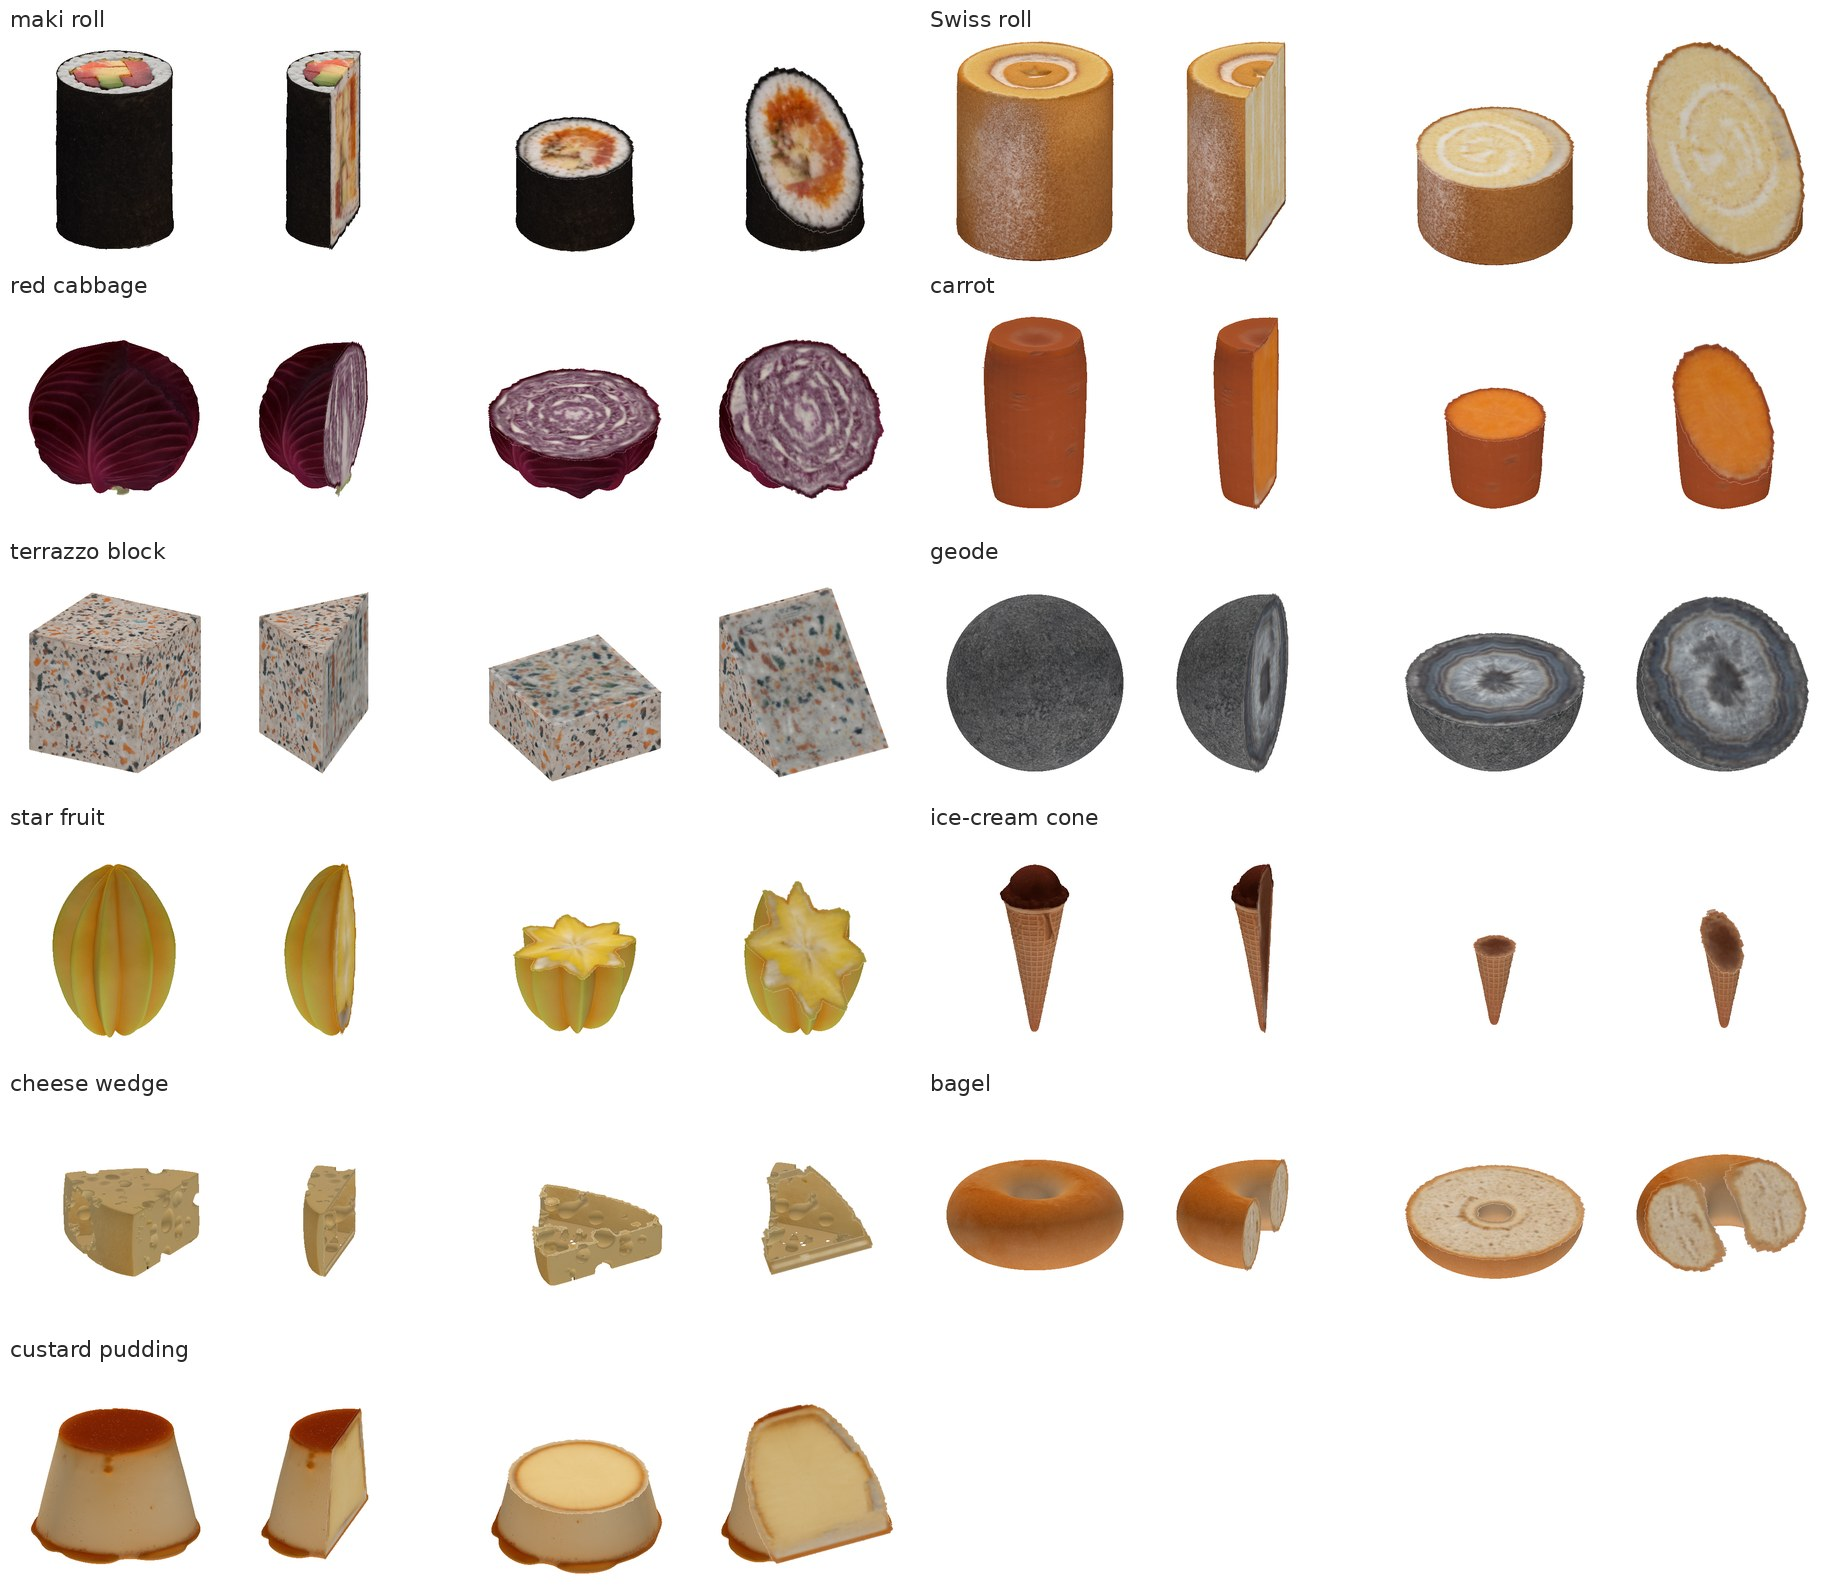
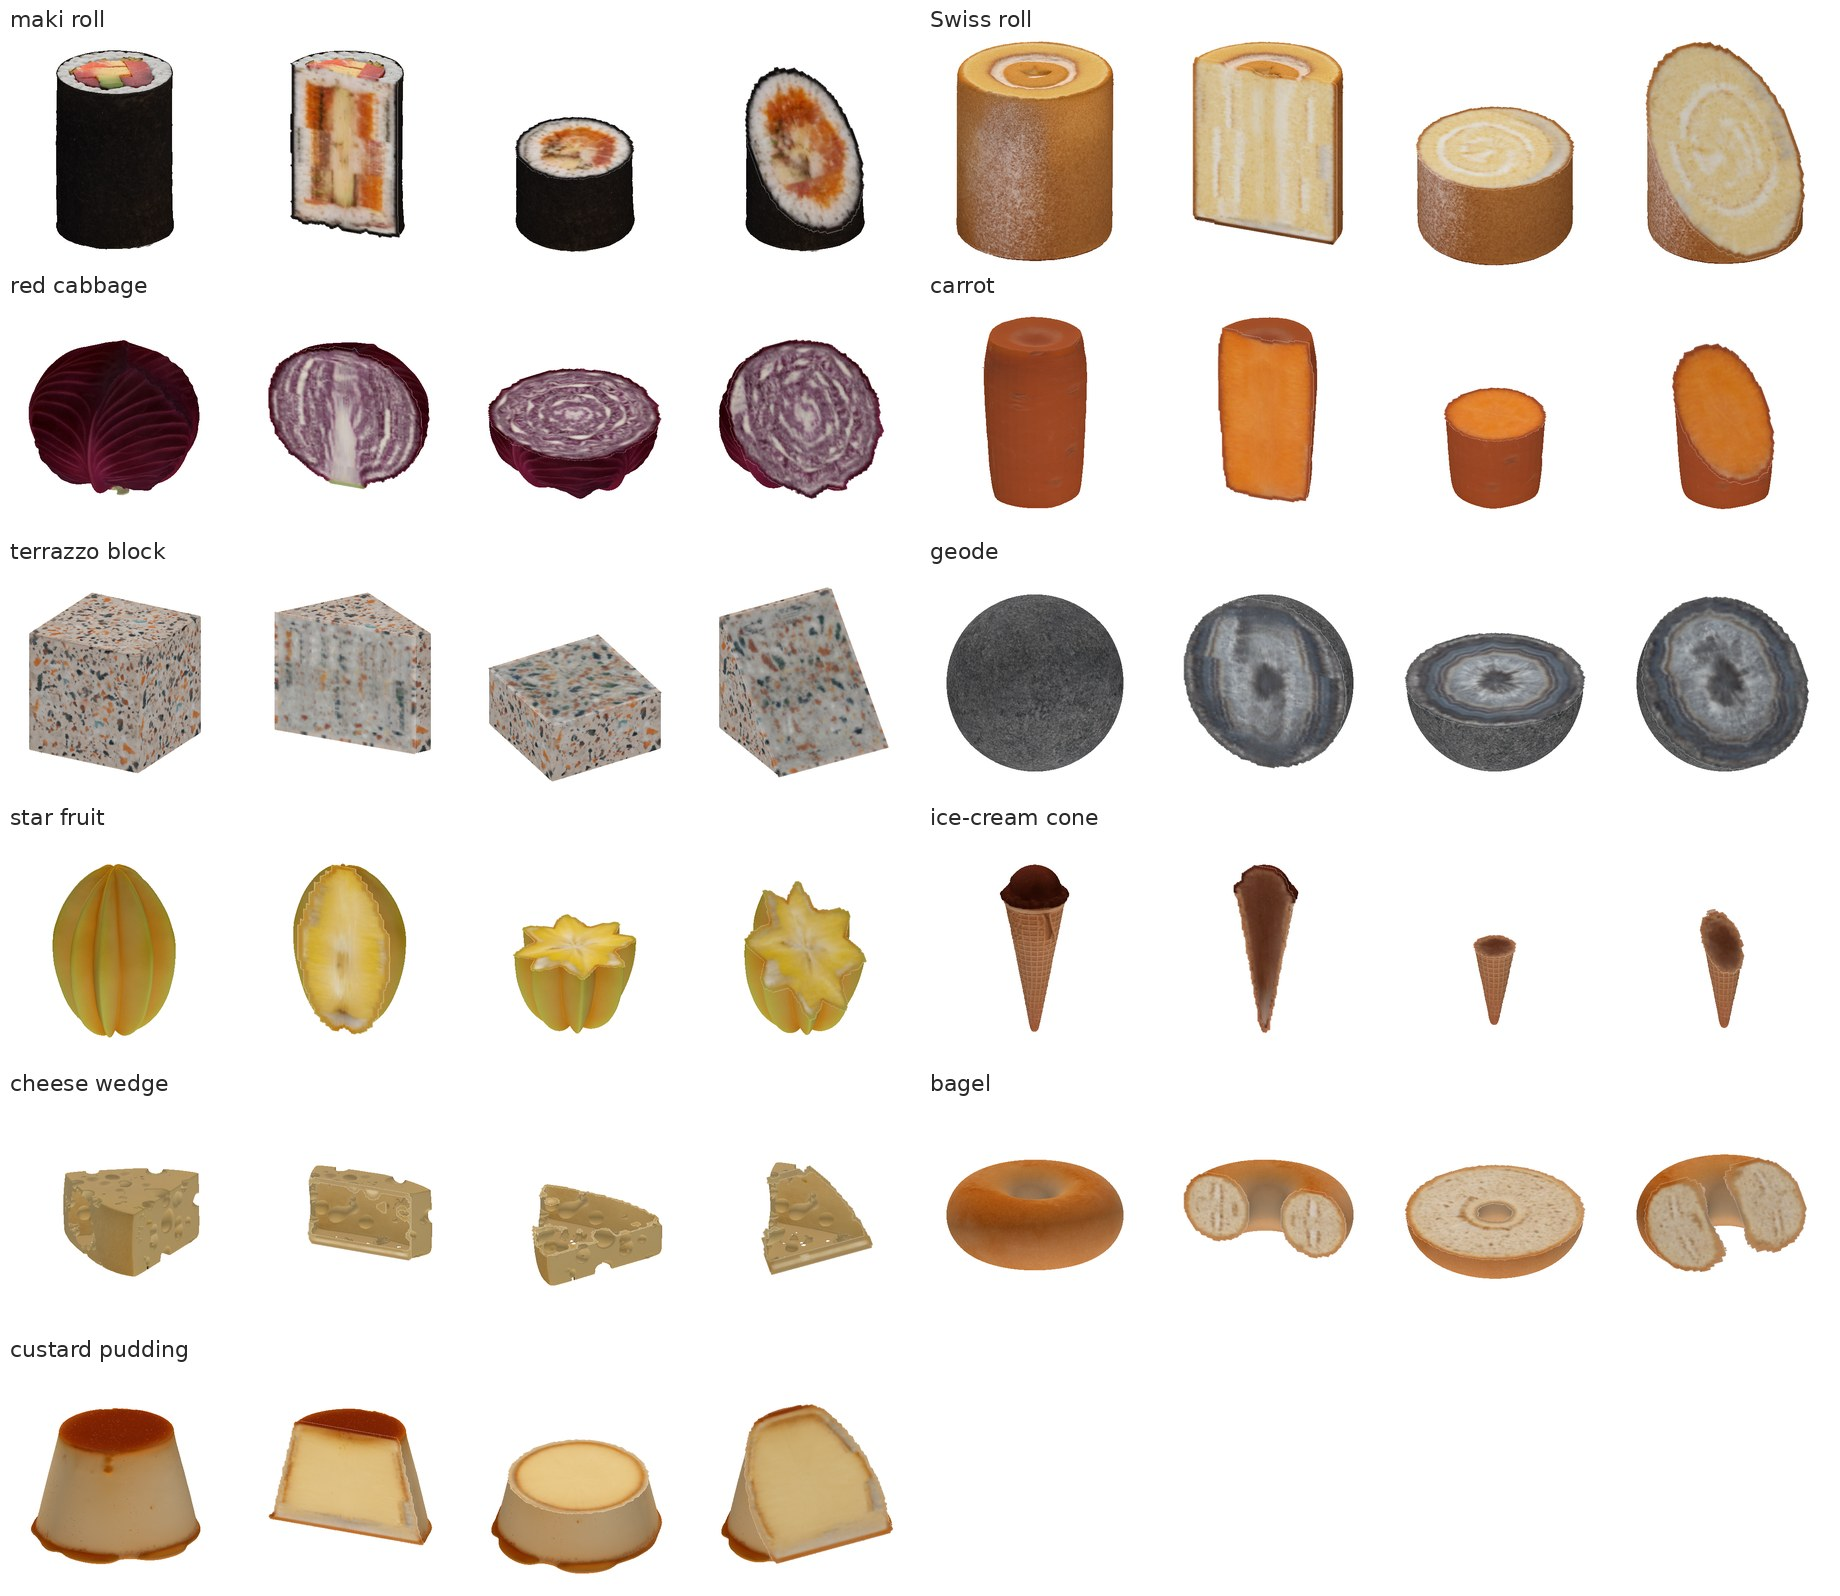
3dfusion v0.1: Figure 19's lengthwise cuts face the viewer

diff --git a/3dfusion_v0.1.html b/3dfusion_v0.1.html
@@ -634,7 +634,7 @@ $$ \hat{x}_0 \;=\; w(r)\,\hat{x}_0^{L} \;+\; \big(1-w(r)\big)\,\hat{x}_0^{T},
 
 <figure style="margin:16px 0 18px">
   <img src="assets/v01_ai11.jpg" loading="lazy" style="width:100%;max-width:920px;margin:0 auto;display:block;border-radius:4px" alt="eleven generated objects: exterior, lengthwise cut, cross-section and oblique cut">
-  <figcaption><span class="fnum">Figure 19</span><br><strong>Eleven objects, four planes each.</strong> For each object, the exterior, a lengthwise plane, a cross-section and an oblique plane, from the declared lattice. The exterior is drawn from the generated mesh itself, rasterised with its own texture, so its outline is smooth where the lattice&#8217;s skin is stepped; the cut face is the lifted volume, read wherever the plane lies inside the solid. The shapes are the generated exteriors&#8217;: the wedge, the torus, the frustum and the five-pointed section are not cylinders. Two cuts show less than they could: the ice-cream cone&#8217;s cross-section falls in the wafer below the scoop, and the cheese wedge&#8217;s lengthwise plane exposes only a narrow face.</figcaption>
+  <figcaption><span class="fnum">Figure 19</span><br><strong>Eleven objects, four planes each.</strong> For each object, the exterior, a lengthwise plane turned toward the viewer, a cross-section and an oblique plane, from the declared lattice. The exterior is drawn from the generated mesh itself, rasterised with its own texture, so its outline is smooth where the lattice&#8217;s skin is stepped; the cut face is the lifted volume, read wherever the plane lies inside the solid. The shapes are the generated exteriors&#8217;: the wedge, the torus, the frustum and the five-pointed section are not cylinders. One cut shows less than it could: the ice-cream cone&#8217;s cross-section falls in the wafer below the scoop.</figcaption>
 </figure>
 
 <div class="cutstrip"><img src="assets/v01_ai_maki.gif" loading="lazy" alt="maki roll"><img src="assets/v01_ai_swissroll.gif" loading="lazy" alt="Swiss roll"><img src="assets/v01_ai_cabbage.gif" loading="lazy" alt="red cabbage"><img src="assets/v01_ai_carrot.gif" loading="lazy" alt="carrot"><img src="assets/v01_ai_terrazzo.gif" loading="lazy" alt="terrazzo block"><img src="assets/v01_ai_geode.gif" loading="lazy" alt="geode"><img src="assets/v01_ai_starfruit.gif" loading="lazy" alt="star fruit"><img src="assets/v01_ai_icecreamcone.gif" loading="lazy" alt="ice-cream cone"><img src="assets/v01_ai_cheesewedge.gif" loading="lazy" alt="cheese wedge"><img src="assets/v01_ai_bagel.gif" loading="lazy" alt="bagel"><img src="assets/v01_ai_pudding.gif" loading="lazy" alt="custard pudding"></div>

diff --git a/code/frames/render_asset.py b/code/frames/render_asset.py
@@ -62,18 +62,20 @@ def render(az,el,plane=None,zoom=1.0):
             vol=((samp(V,torch.tensor(Pp[cand],device=dv,dtype=torch.float32))+1)/2).clamp(0,1).cpu().numpy()
             img[cand]=vol*(0.82+0.18*abs(float(n@LIGHT)))
     return (img.reshape(RES,RES,3)*255).astype(np.uint8)
+# the lengthwise still faces the viewer: its plane's normal 25 degrees off the camera's azimuth, the removed half toward it
+FACE=(np.array([math.cos(math.radians(35)),0.,math.sin(math.radians(35))]),0.0)
 frames=[]; stills=[]
-for k in range(12): frames.append(render(30+k*7.5,22))
-for k in range(24):
-    th=math.pi*k/24; frames.append(render(60,22,(np.array([-math.sin(th),0.,math.cos(th)]),0.0)))
-    if k==6: stills.append(frames[-1])
-for k in range(24):
-    h=C*0.6*(1-2*k/23); frames.append(render(60,32,(np.array([0.,-1.,0.]),h)))
-    if k==12: stills.append(frames[-1])
-for k in range(16):
-    t=math.pi/2*k/15; frames.append(render(60,28,(np.array([0.,-math.cos(t),math.sin(t)]),0.0)))
-    if k==8: stills.append(frames[-1])
-ims=[Image.fromarray(a) for a in frames]; ims[0].save(OUT,save_all=True,append_images=ims[1:],duration=90,loop=0)
+if os.environ.get("STILLS_ONLY")!="1":
+    for k in range(12): frames.append(render(30+k*7.5,22))
+    for k in range(24):
+        th=math.pi*k/24; frames.append(render(60,22,(np.array([-math.sin(th),0.,math.cos(th)]),0.0)))
+    for k in range(24):
+        h=C*0.6*(1-2*k/23); frames.append(render(60,32,(np.array([0.,-1.,0.]),h)))
+    for k in range(16):
+        t=math.pi/2*k/15; frames.append(render(60,28,(np.array([0.,-math.cos(t),math.sin(t)]),0.0)))
+    ims=[Image.fromarray(a) for a in frames]; ims[0].save(OUT,save_all=True,append_images=ims[1:],duration=90,loop=0)
 if len(sys.argv)>5:
-    s=Image.new("RGB",(RES*4,RES),"white"); s.paste(ims[0],(0,0)); [s.paste(Image.fromarray(a),((i+1)*RES,0)) for i,a in enumerate(stills)]; s.save(sys.argv[5])
+    stills=[render(30,22),render(60,22,FACE),render(60,32,(np.array([0.,-1.,0.]),C*0.6*(1-24/23))),
+            render(60,28,(np.array([0.,-math.cos(math.pi/2*8/15),math.sin(math.pi/2*8/15)]),0.0))]
+    s=Image.new("RGB",(RES*4,RES),"white"); [s.paste(Image.fromarray(a),(i*RES,0)) for i,a in enumerate(stills)]; s.save(sys.argv[5])
 print("wrote",OUT,len(frames),"frames")
